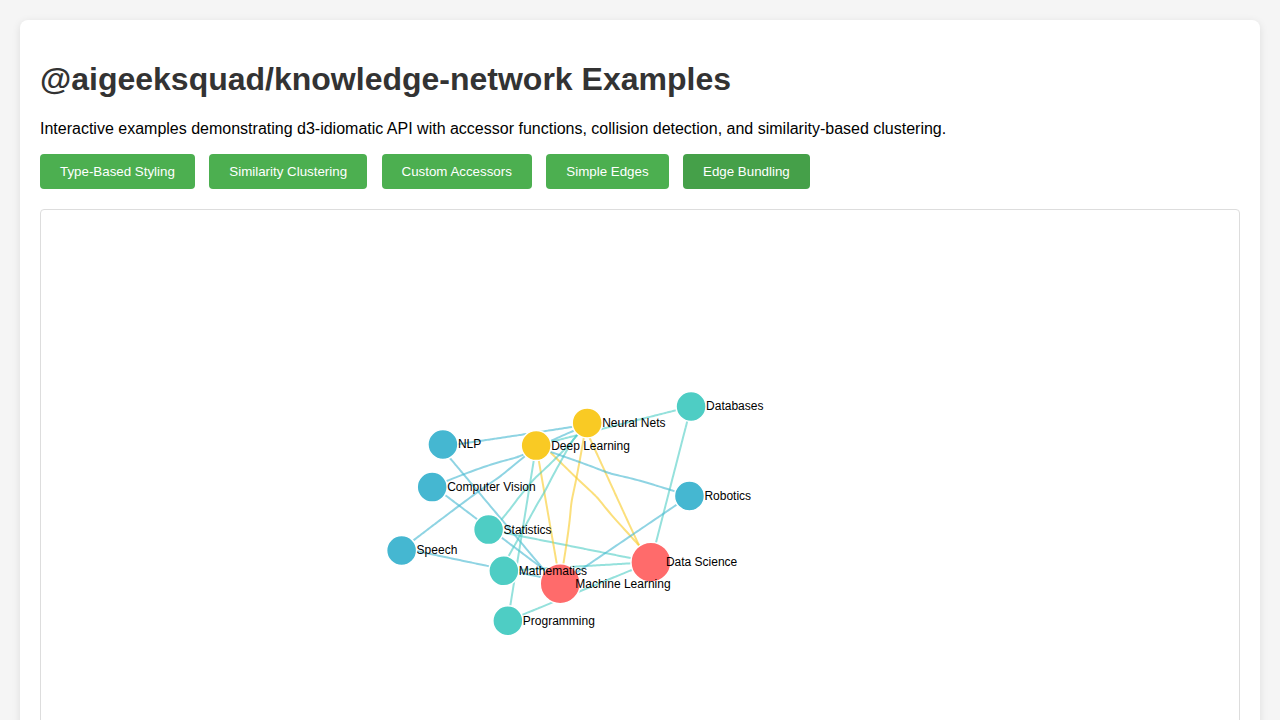
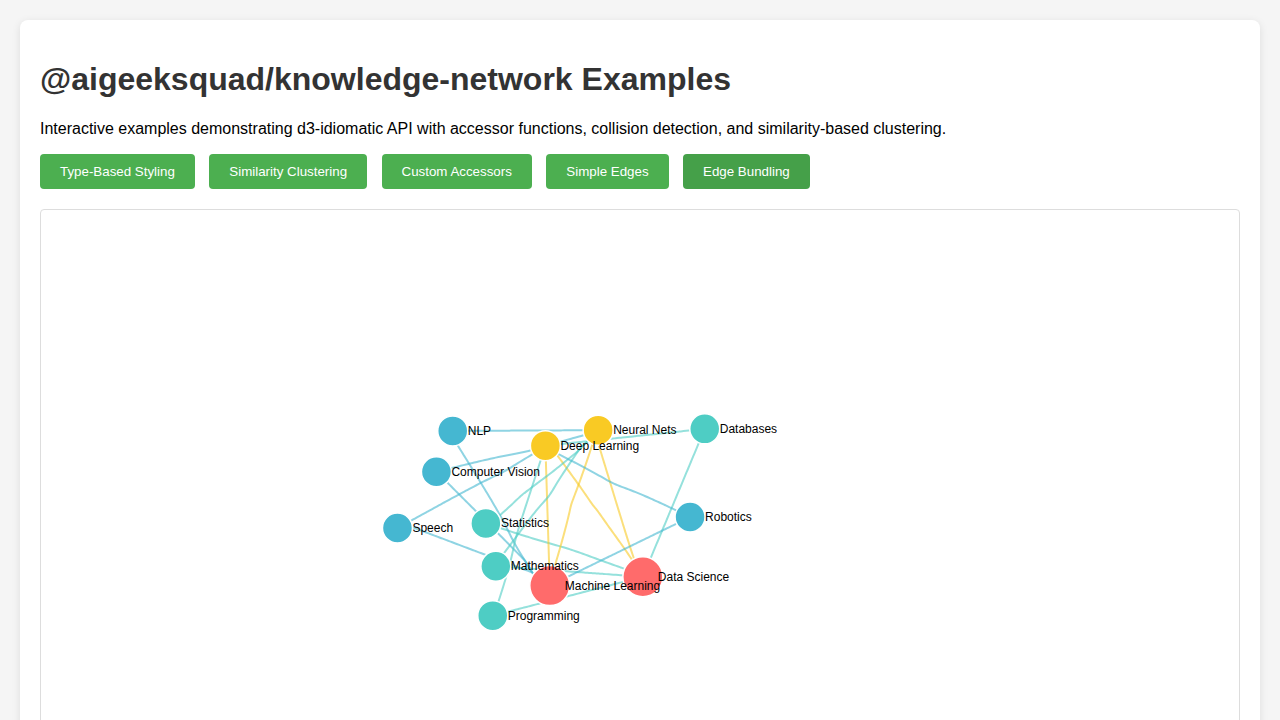
Fix edge bundling algorithm to preserve curved paths during node movement

Changed region(s): [[0.2812, 0.55, 0.625, 0.8861]]

diff --git a/packages/knowledge-network/src/edges/EdgeBundling.ts b/packages/knowledge-network/src/edges/EdgeBundling.ts
@@ -153,20 +153,26 @@ export class EdgeBundling implements EdgeRenderer {
       const target = edge.target as any;
       const points = data.controlPoints[i];
 
-      // Update start and end points
-      points[0] = { x: source.x, y: source.y };
-      points[points.length - 1] = { x: target.x, y: target.y };
+      // Store the old start and end positions
+      const oldSourceX = points[0].x;
+      const oldSourceY = points[0].y;
+      const oldTargetX = points[points.length - 1].x;
+      const oldTargetY = points[points.length - 1].y;
 
-      // Interpolate intermediate points
-      for (let j = 1; j < points.length - 1; j++) {
+      // Calculate the delta movement of endpoints
+      const deltaSourceX = source.x - oldSourceX;
+      const deltaSourceY = source.y - oldSourceY;
+      const deltaTargetX = target.x - oldTargetX;
+      const deltaTargetY = target.y - oldTargetY;
+
+      // Update all control points proportionally based on endpoint movement
+      for (let j = 0; j < points.length; j++) {
         const t = j / (points.length - 1);
-        points[j].x = source.x * (1 - t) + target.x * t;
-        points[j].y = source.y * (1 - t) + target.y * t;
+        // Interpolate the delta movement across the control points
+        points[j].x += deltaSourceX * (1 - t) + deltaTargetX * t;
+        points[j].y += deltaSourceY * (1 - t) + deltaTargetY * t;
       }
     });
-
-    // Re-run bundling with updated positions
-    this.performBundling(edges, data.controlPoints);
 
     // Update paths
     result.selection.attr('d', (_d, i) => data.lineGenerator(data.controlPoints[i]));
